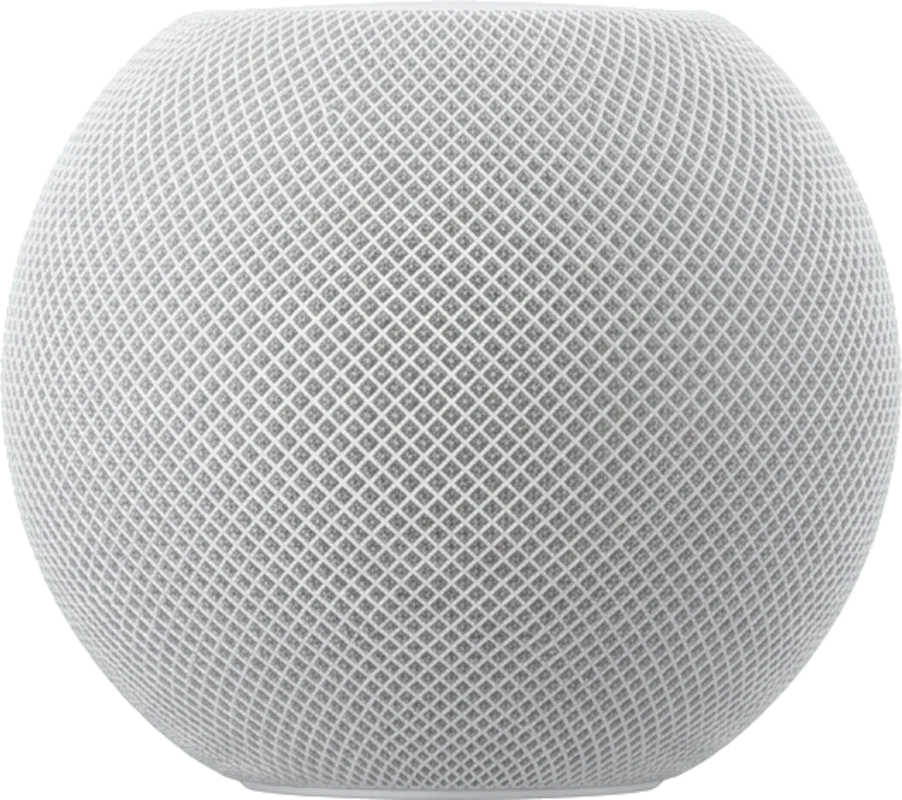
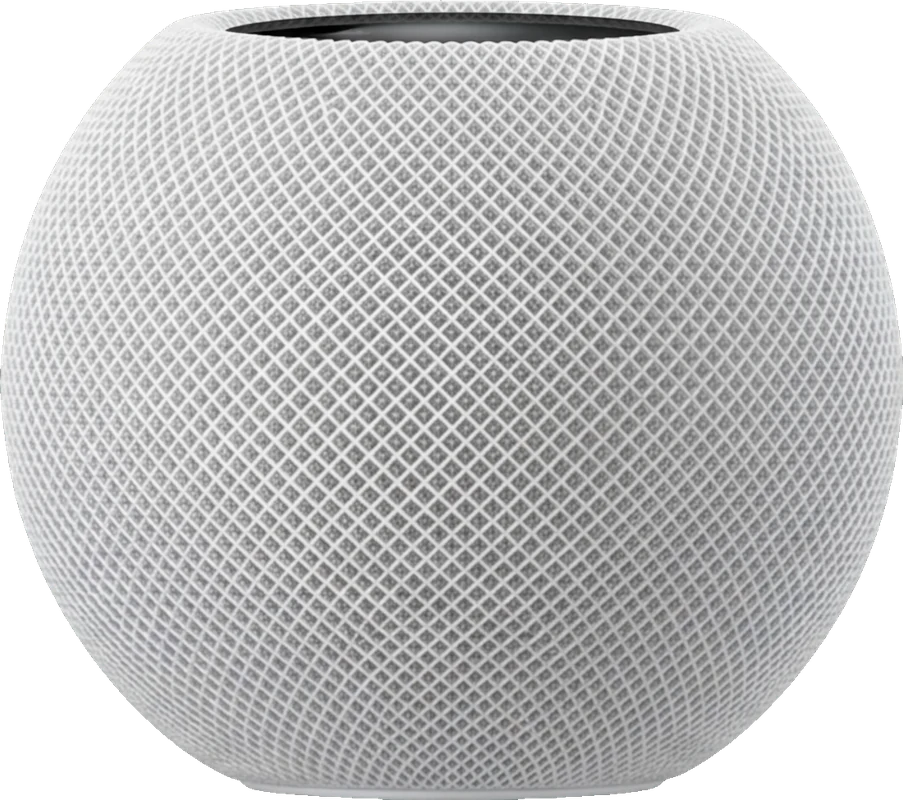
v3.15.3: New snow globe, tilted HomePod (#41)
* Snow globe: bookshop on a walnut block, smaller (v3.15.3)

* HomePod mini: slight forward tilt showing the top

diff --git a/src/decor.ts b/src/decor.ts
@@ -23,9 +23,9 @@ const CAMERA_ASPECT = 1275 / 800;
 
 export const DECOR_CATALOGUE: DecorDef[] = [
   { id: 'cactus', label: 'Cactus', src: '/decor/cactus.webp', height: 0.75, aspect: 356 / 800, base: [0.24, 0.76] },
-  { id: 'snowglobe', label: 'Snow globe', src: '/decor/snowglobe.webp', height: 0.7, aspect: 630 / 800, base: [0.05, 0.95] },
+  { id: 'snowglobe', label: 'Snow globe', src: '/decor/snowglobe.webp', height: 0.55, aspect: 468 / 637, base: [0.01, 0.99] },
   { id: 'figurine', label: 'Figure', src: '/decor/figurine.webp', height: 0.6, aspect: 315 / 800, base: [0.15, 0.85] },
-  { id: 'speaker', label: 'Speaker', src: '/decor/speaker.webp', height: 0.48, aspect: 902 / 800, base: [0.22, 0.78] },
+  { id: 'speaker', label: 'Speaker', src: '/decor/speaker.webp', height: 0.48, aspect: 903 / 800, base: [0.25, 0.75] },
   // No wider than 2/3 of a paperback (measured): width = 2/3 × the book's width.
   { id: 'camera', label: 'Film camera', src: '/decor/camera.webp', height: (2 / 3) * BOOK_ASPECT / CAMERA_ASPECT, aspect: CAMERA_ASPECT, base: [0.03, 0.97] },
   { id: 'trophy', label: 'Trophy', src: '/decor/trophy.webp', height: 0.62, aspect: 510 / 654, base: [0.24, 0.76] },
